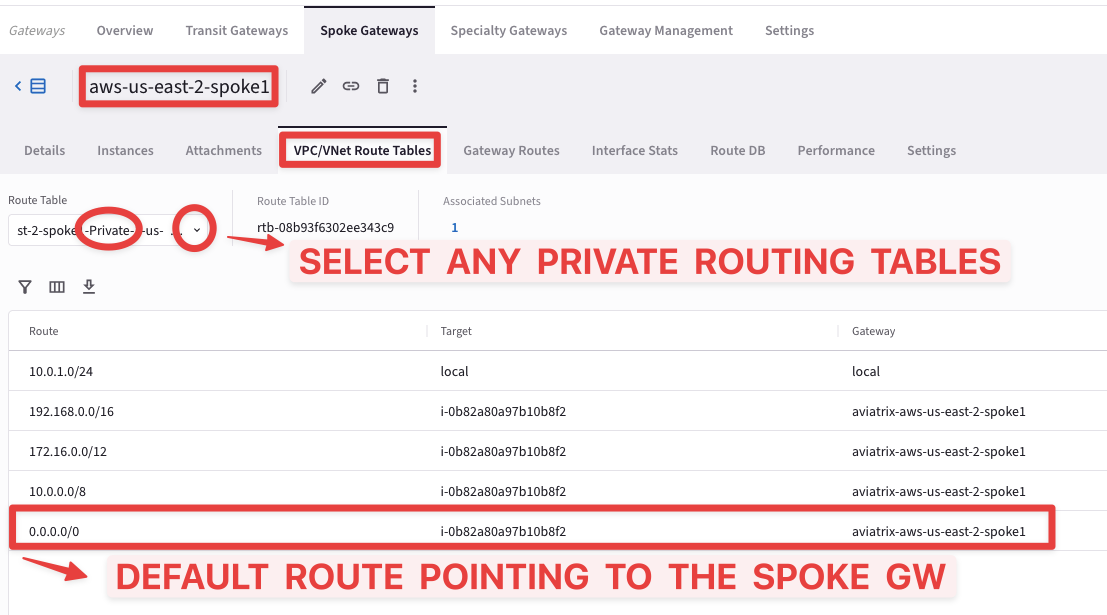
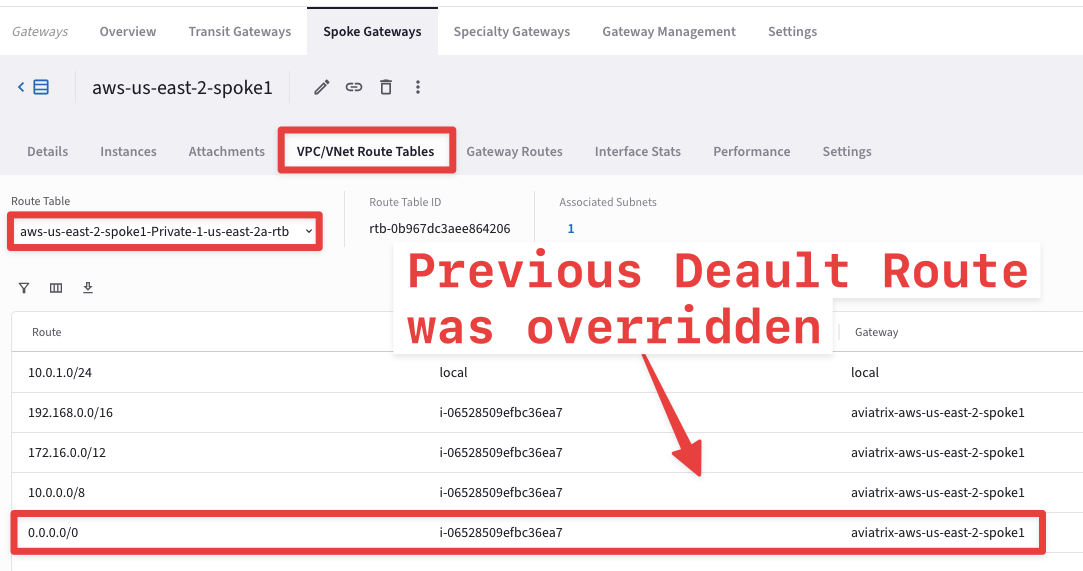
update for pro

diff --git a/ace_pro/docs/lab5.md b/ace_pro/docs/lab5.md
@@ -42,6 +42,7 @@ Select the Spoke GW in US-EAST-2
 
 ```{figure} images/lab6-vpc.png
 ---
+height: 400px
 align: center
 ---
 Check the private RTB
@@ -51,7 +52,7 @@ You will notice that this private RTB has its own **CIDR** pointing to local, th
 
 With this scenario, the EC2 instance can reach the **Internet Public Zone**; however, the AWS NAT Gateway is limited and provided by the logs and flows, which might not be adequate in an Enterprise scenario. Moreover, it doesn't provide any visibility.
 
-## 3. Connectivity Testing of ActiveMesh (Pt.2)
+## 3. Preliminary Connectivity Testing
 
 Let's verify what traffic the instance in the private subnet is generating!
 
@@ -61,6 +62,7 @@ Navigate to your POD Portal, locate the `Gatus widget`, and select both **_aws-u
 
 ```{figure} images/lab6-gatus500.png
 ---
+height: 400px
 align: center
 ---
 aws-us-east-2-spoke1-test2
@@ -74,12 +76,13 @@ The private workload is genersting traffic towardds 4 domains:
 
 ```{figure} images/lab6-gatus501.png
 ---
+height: 400px
 align: center
 ---
 Egress traffic through the AWS NAT GW
 ```
 
-## 3. SSH to the EC2 instance in the Private Subnet
+### 3.2 Preliminary Connectivity Testing Using the SSH Client <span style='color:#33ECFF'>(BONUS)</span></summary>
 
 - SSH to the **_aws-us-east-2-spoke1-test1_** instance from your laptop. Refer to your POD portal or alternatively, you can retrieve the Public IP from the CoPilot's Topology.
 
@@ -101,7 +104,7 @@ From test1 to test2
 ```
 
 ```{note}
-The **_aws-us-east-2-spoke1-test2_** instance resides within a private subnet! 
+Once again, the **_aws-us-east-2-spoke1-test2_** instance resides within a private subnet; therefore, you first need to SSH into a public workload that will be used as a jumphost.
 ```
 
 ```{tip}
@@ -114,6 +117,29 @@ height: 400px
 align: center
 ---
 Retrieve the private IP
+```
+
+Now, launch the following curl commands:
+
+```bash
+curl www.aviatrix.com
+```
+```bash
+curl www.wikipedia.com
+```
+```bash
+curl www.espn.com
+```
+```bash
+curl www.football.com
+```
+
+```{figure} images/lab6-curl.png
+---
+height: 400px
+align: center
+---
+curl commands
 ```
 
 ## 4. Egress Control
@@ -152,7 +178,7 @@ At this point, the Aviatrix  performs the same functions as the **CSP NAT Gatewa
 - Verify its presence in any Private RTBs inside the **_aws-us-east-2-spoke1_** VPC.
 
 ```{tip}
-Go to **CoPilot > Cloud Fabric > Gateways > Spoke Gateways** and select the **_aws-us-east-2-spoke1 GW_**, then click on the **VPC/VNet Route Tables** tab, then select any Private RTBs from the **Route Table** field.
+Go to **CoPilot > Cloud Fabric > Gateways > Spoke Gateways** and select the **_aws-us-east-2-spoke1 GW_**, then click on the **VPC/VNet Route Tables** tab and then select the following Private RTB from the `Route Table` field: **aws-us-east-2-spoke1-Private-<span style='color:#33ECFF'>1</span></summary>-us-east-2a-rtb**.
 ```
 
 ```{figure} images/lab6-defaultroute.png
@@ -163,48 +189,12 @@ Default route has been injected
 ```
 
 ```{important}
-Now, thanks to the default route, the instance **_aws-us-east-2-spoke1-test2_** will be able to generate traffic towards the internet public zone.
+The `Default Rout`e is now pointing to the AViatrix Spoke Gateway.
 ```
 
-### 4.3 Generate Traffic
+### 4.3 Enable DCF
 
-From the **_aws-us-east-2-spoke1-test2_** instance, try to curl the following websites:
-
-```bash
-curl www.aviatrix.com
-```
-```bash
-curl www.wikipedia.com
-```
-```bash
-curl www.espn.com
-```
-```bash
-curl www.football.com
-```
-
-```{figure} images/lab6-generatetraffic.png
----
-align: center
----
-Generate traffic
-```
-
-Let's now check whether the Spoke Gateway could gather **NetFlow** data after generating the aforementioned *curl* commands, or not.
-
-Go to **CoPilot > Security > Egress > Overview (default)**
-
-```{figure} images/lab6-nodatafound.png
----
-height: 400px
-align: center
----
-No Data Found
-```
-
-You will notice the Message `"No Data Found"`. You have successfully activated your egress control without disrupting anything that is sitting on the private subnet, nevertheless, if you want to get the NetFlow information, you need to apply a `Distributed Cloud Firewall RULE`, such that you can start evaluate the behaviour of the Private Subnet and get a good understanding of what domains have been reached out from the private subnet.
-
-### 4.4 Enable DCF
+You have successfully activated your `local egress control` without disrupting anything that is sitting on the private subnet, nevertheless, if you want to get the NetFlow information, you need to apply a `Distributed Cloud Firewall RULE`, such that you can start evaluate the behaviour of the Private Subnet and get a good understanding of what domains have been reached out from the private subnet.
 
 - Enable the Distributed Cloud Firewall.
 
@@ -234,7 +224,7 @@ align: center
 Begin
 ```
 
-After having enabled the DCF, two Rules will get generated, automatically:
+After having enabled the DCF, two Rules will be generated automatically:
 - `Greendfield-Rule` = ALLOW EVERYTHING
 - `DefaultDenyAll` = it's an EXPLICIT deny
 
@@ -248,7 +238,11 @@ align: center
 Automatic rules injected by the Controller
 ```
 
-#### 4.4.1 Identify the subnet where the private workload resides
+## 5. Define the SmartGroup that identifies test2 instance
+
+At this point, you can use the SmartGroup feature to identify the test2 instance.
+
+### 5.1 Identify the subnet where the private workload resides
 
 First and foremost, you have to identify the **public subnet** where the **_aws-us-east-2-spoke1-test2_** instance resides.
 
@@ -260,9 +254,9 @@ align: center
 Private Subnet
 ```
 
-Go to **CoPilot > Cloud Resources > Cloud Assets > Virtual Machines** and search for the **_aws-us-east-2-spoke1-test2_** instance on the search field on the right-hand side.
+Go to **CoPilot > Cloud Resources > Cloud Assets > Virtual Machines** and search for the **_aws-us-east-2-spoke1-test2_** instance in the search field on the right-hand side.
 
-From the outcom you have to pinpoint the `Availability Zone`.
+From the results, you need to identify the `Availability Zone`.
 
 ```{figure} images/lab6-greenfieldneww2.png
 ---
@@ -272,7 +266,7 @@ align: center
 AZ
 ```
 
-Now that you know in what `Availability Zone` the private workload resides, you need to select the `VPC/VNets & Subnets` TAB and filter out based on the **_aws-us-east-2-spoke1_** VPC.
+Now that you know in which `Availability Zone` the private workload resides, you need to select the `VPC/VNets & Subnets` tab and filter based on the **_aws-us-east-2-spoke1_** VPC.
 
 Identify the `Private Subnet` that belongs to the `us-east-2a` AZ and copy the corresponding **_`IP Address CIDR`_** value!
 
@@ -284,7 +278,7 @@ align: center
 Private Subnet
 ```
 
-#### 4.4.2 Create an Ad-Hoc SmartGroup
+### 5.2 Create an ad-hoc SmartGroup
 
 Go to **CoPilot > Groups** and click on the `"+ SmartGroup"` button.
 
@@ -321,7 +315,7 @@ align: center
 New SG
 ```
 
-#### 4.4.3 Create a new Rule
+## 6. Create a new DCF Rule
 
 Go to **CoPilot > Security > Distributed Cloud Firewall > Rules (default tab)** and create a new rule clicking on the `"+ Rule"` button.
 
@@ -352,7 +346,13 @@ align: center
 Saving the new Rule
 ```
 
-Click on the **Commit** button and the rule previously created will work in **_watch/test_** mode due to the fact that the `enforcement` was turn off.
+```{important}
+`All-Web` _WebGroup_ = this is an "allow-all" WebGroup that you must select in a Distributed Cloud Firewall rule if you do not want to limit the Internet-bound traffic for that rule, but you still want to log the FQDNs that are being accessed.
+
+Ultimately , this Webgroup will limit Internet traffic solely for **HTTP** and **HTTPS** protocols.
+```
+
+Click on the **Commit** button, and the rule previously created will work in **_watch/test_** mode because `enforcement` was turn off.
 
 ```{important}
 If the **Enforcement** slider is **On** (the default), the rule is enforced in the data plane. If the Enforcement slider is **Off**, the packets are only watched. This allows you to observe if the traffic impacted by this rule causes any inadvertent issues (such as traffic being dropped).
@@ -377,6 +377,14 @@ The deletion of the Greenfield-Rule will also cause the deletion of the DefaultD
 ```
 
 ```{figure} images/lab6-newruledelete.png
+---
+height: 250px
+align: center
+---
+Commit your change
+```
+
+```{figure} images/lab6-newruledelete101.png
 ---
 height: 250px
 align: center
